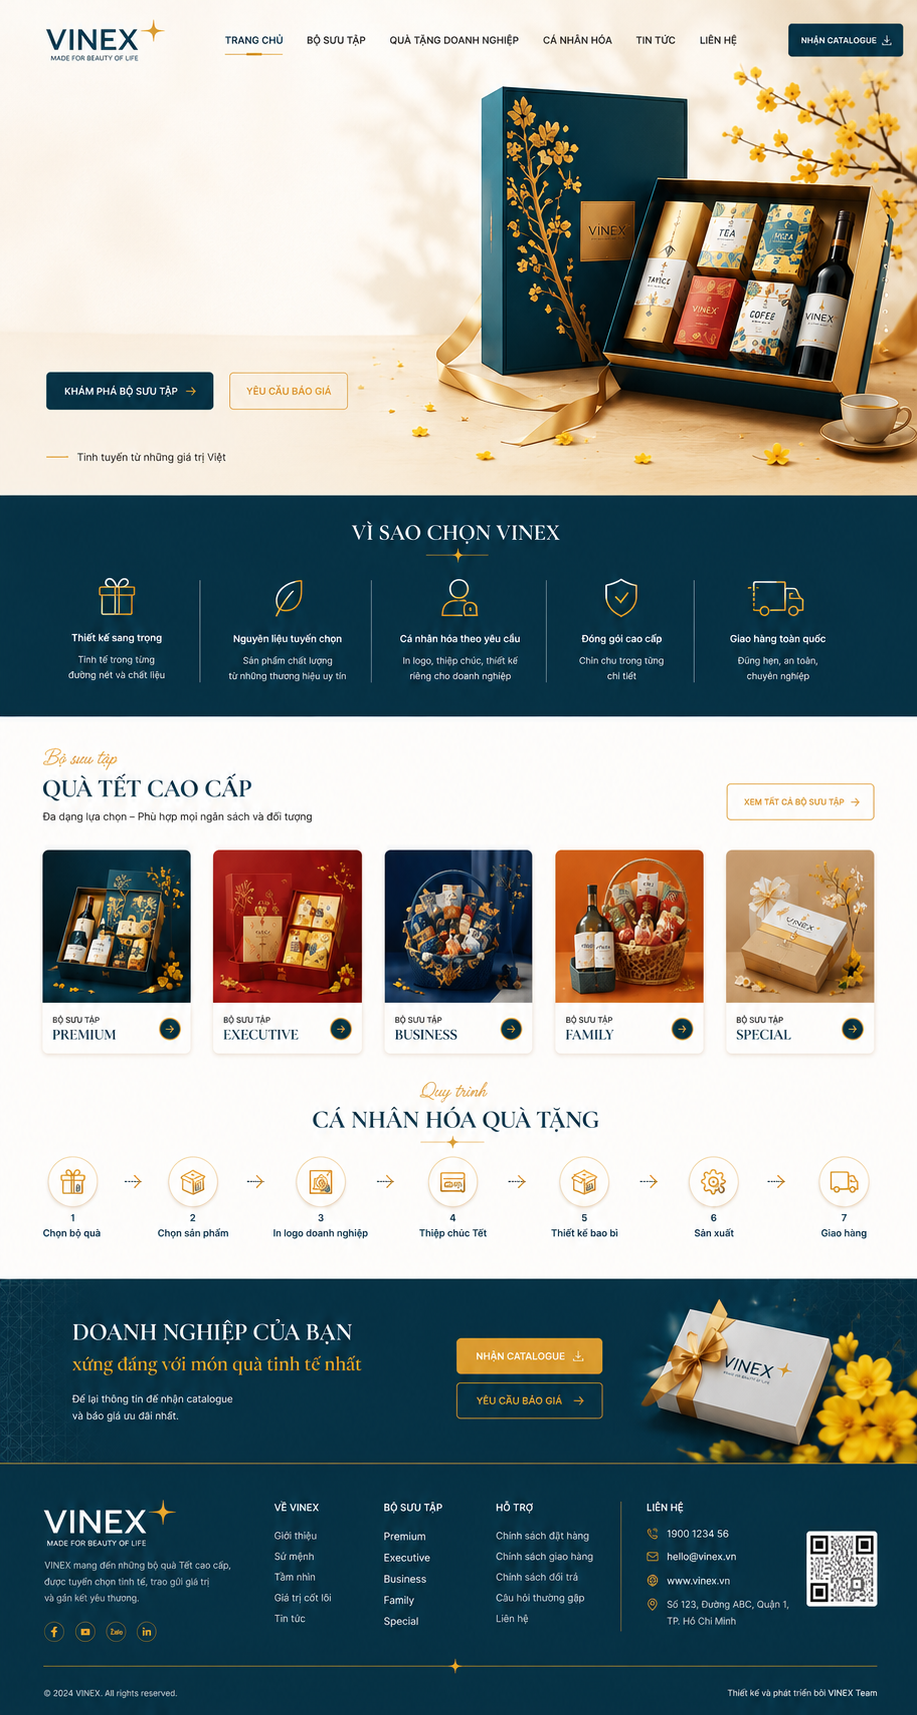
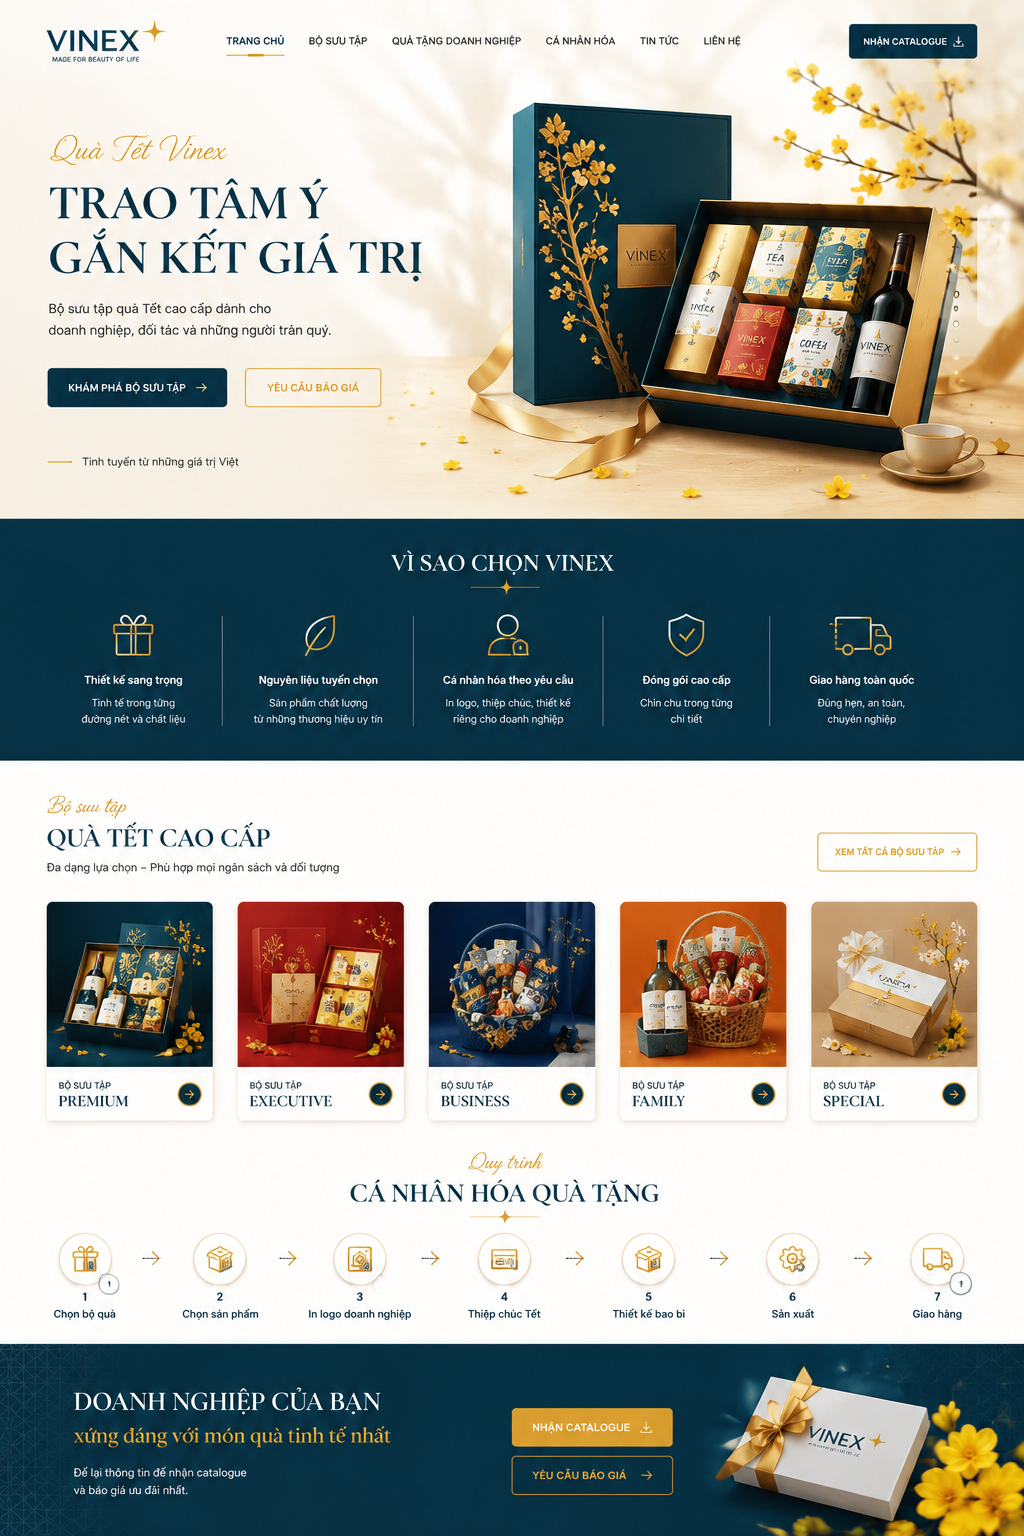
style: update Hero section colors and text styling to match ui.png

diff --git a/src/components/sections/Hero.tsx b/src/components/sections/Hero.tsx
@@ -49,7 +49,7 @@ export const Hero = () => {
   ];
 
   return (
-    <section ref={container} className="relative min-h-screen w-full overflow-hidden flex items-center pt-24 pb-12 bg-[#051f25]">
+    <section ref={container} className="relative min-h-screen w-full overflow-hidden flex items-center pt-24 pb-12 bg-white">
       {/* Dynamic Scaling Background */}
       <div 
         ref={bgRef}
@@ -61,7 +61,7 @@ export const Hero = () => {
         {particles.map((p) => (
           <motion.div
             key={p.id}
-            className="absolute rounded-full bg-vinex-yellow/40"
+            className="absolute rounded-full bg-vinex-yellow/50"
             style={{ width: p.size, height: p.size, top: p.top, left: p.left }}
             animate={{
               y: [0, -80, 0],
@@ -82,14 +82,14 @@ export const Hero = () => {
         
         {/* Content */}
         <div className="flex flex-col items-start text-left max-w-4xl">
-          <span className="hero-pre text-3xl md:text-5xl font-light text-vinex-yellow mb-6 font-script tracking-wide">
+          <span className="hero-pre text-3xl md:text-5xl font-light text-vinex-yellow mb-6 font-script tracking-wide drop-shadow-sm">
             Quà Tết Vinex
           </span>
-          <h1 className="text-5xl md:text-6xl lg:text-[5.5rem] font-medium text-vinex-yellow tracking-normal leading-[1.15] mb-8 font-serif whitespace-nowrap drop-shadow-md flex flex-col">
+          <h1 className="text-5xl md:text-6xl lg:text-[5.5rem] font-bold text-vinex-blue tracking-tight leading-[1.15] mb-8 font-serif whitespace-nowrap drop-shadow-sm flex flex-col">
             <div className="overflow-hidden py-1"><div className="hero-line-1 origin-bottom-left">TRAO TÂM Ý</div></div>
-            <div className="overflow-hidden py-1"><div className="hero-line-2 origin-bottom-left text-white">GẮN KẾT GIÁ TRỊ</div></div>
+            <div className="overflow-hidden py-1"><div className="hero-line-2 origin-bottom-left text-vinex-blue">GẮN KẾT GIÁ TRỊ</div></div>
           </h1>
-          <p className="hero-desc text-base md:text-lg text-white/90 max-w-2xl mb-10 leading-relaxed font-light drop-shadow-sm">
+          <p className="hero-desc text-base md:text-lg text-vinex-blue/90 max-w-2xl mb-10 leading-relaxed font-normal drop-shadow-sm">
             Bộ sưu tập quà Tết cao cấp dành cho doanh nghiệp, đối tác và những người trân quý.
           </p>
 
@@ -97,9 +97,9 @@ export const Hero = () => {
             <motion.button 
               whileHover={{ scale: 1.02, y: -2 }}
               whileTap={{ scale: 0.98 }}
-              className="hero-btn group relative flex items-center justify-center gap-3 px-8 py-4 text-xs font-bold tracking-widest uppercase text-vinex-blue bg-vinex-yellow hover:bg-vinex-yellow/90 transition-all rounded-sm w-full sm:w-auto shadow-[0_4px_20px_rgba(255,199,3,0.3)] hover:shadow-[0_8px_30px_rgba(255,199,3,0.4)] overflow-hidden"
+              className="hero-btn group relative flex items-center justify-center gap-3 px-8 py-4 text-xs font-bold tracking-widest uppercase text-white bg-vinex-blue hover:bg-vinex-blue/95 transition-all rounded-sm w-full sm:w-auto shadow-[0_4px_20px_rgba(17,76,90,0.25)] hover:shadow-[0_8px_30px_rgba(17,76,90,0.35)] overflow-hidden"
             >
-              <div className="absolute inset-0 -translate-x-full bg-gradient-to-r from-transparent via-white/40 to-transparent group-hover:animate-sweep"></div>
+              <div className="absolute inset-0 -translate-x-full bg-gradient-to-r from-transparent via-white/30 to-transparent group-hover:animate-sweep"></div>
               <span>KHÁM PHÁ BỘ SƯU TẬP</span>
               <motion.div transition={{ type: "spring", stiffness: 400, damping: 25 }} whileHover={{ x: 4 }}>
                 <ArrowRight className="w-4 h-4" />
@@ -107,15 +107,15 @@ export const Hero = () => {
             </motion.button>
             
             <motion.button 
-              whileHover={{ scale: 1.02, y: -2, backgroundColor: "rgba(255,255,255,0.15)" }}
+              whileHover={{ scale: 1.02, y: -2, backgroundColor: "rgba(17,76,90,0.05)" }}
               whileTap={{ scale: 0.98 }}
-              className="hero-btn group relative flex items-center justify-center px-8 py-4 text-xs font-bold tracking-widest uppercase text-white bg-transparent border border-white/50 transition-all rounded-sm w-full sm:w-auto backdrop-blur-sm shadow-[0_4px_14px_rgba(0,0,0,0.1)] hover:border-white"
+              className="hero-btn group relative flex items-center justify-center px-8 py-4 text-xs font-bold tracking-widest uppercase text-vinex-blue bg-white/80 border border-vinex-blue/30 transition-all rounded-sm w-full sm:w-auto backdrop-blur-sm shadow-[0_4px_14px_rgba(0,0,0,0.05)] hover:border-vinex-blue"
             >
               <span>YÊU CẦU BÁO GIÁ</span>
             </motion.button>
           </div>
 
-          <div className="hero-foot flex items-center gap-4 text-sm font-semibold tracking-wider text-white/80 uppercase drop-shadow-sm">
+          <div className="hero-foot flex items-center gap-4 text-sm font-semibold tracking-wider text-vinex-blue/80 uppercase drop-shadow-sm">
             <motion.span 
               initial={{ scaleX: 0 }} 
               animate={{ scaleX: 1 }} 
